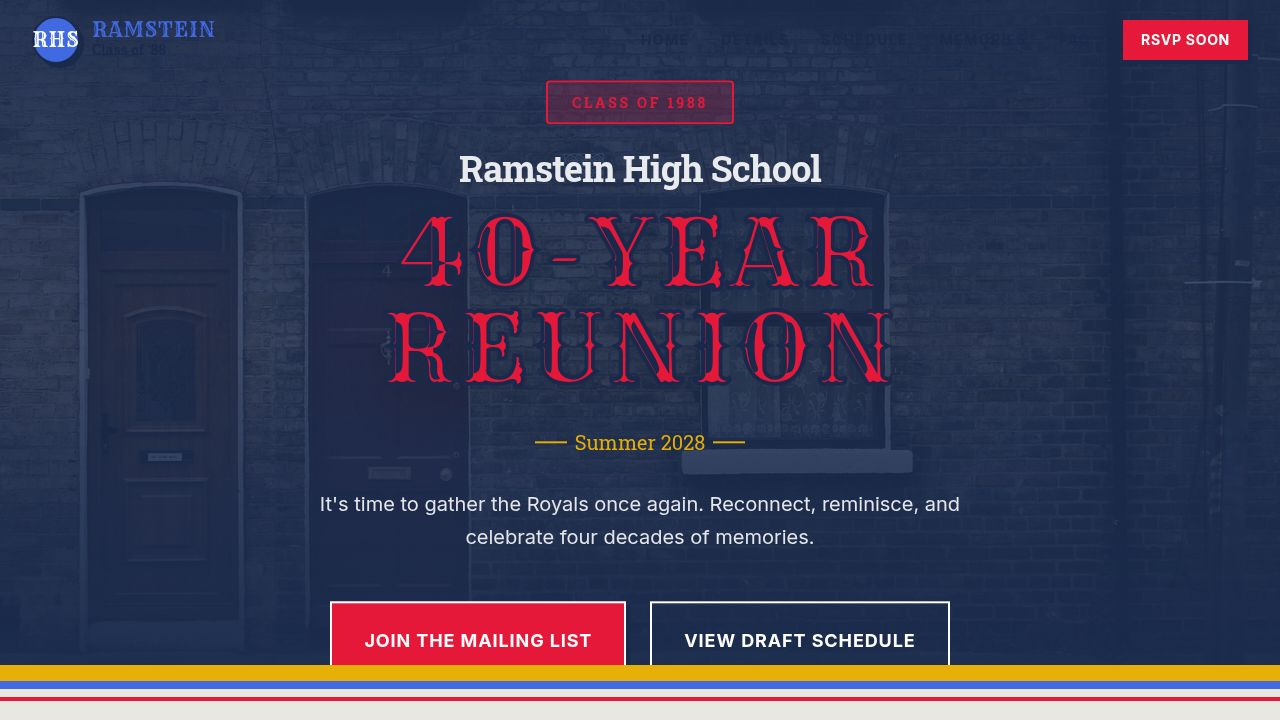
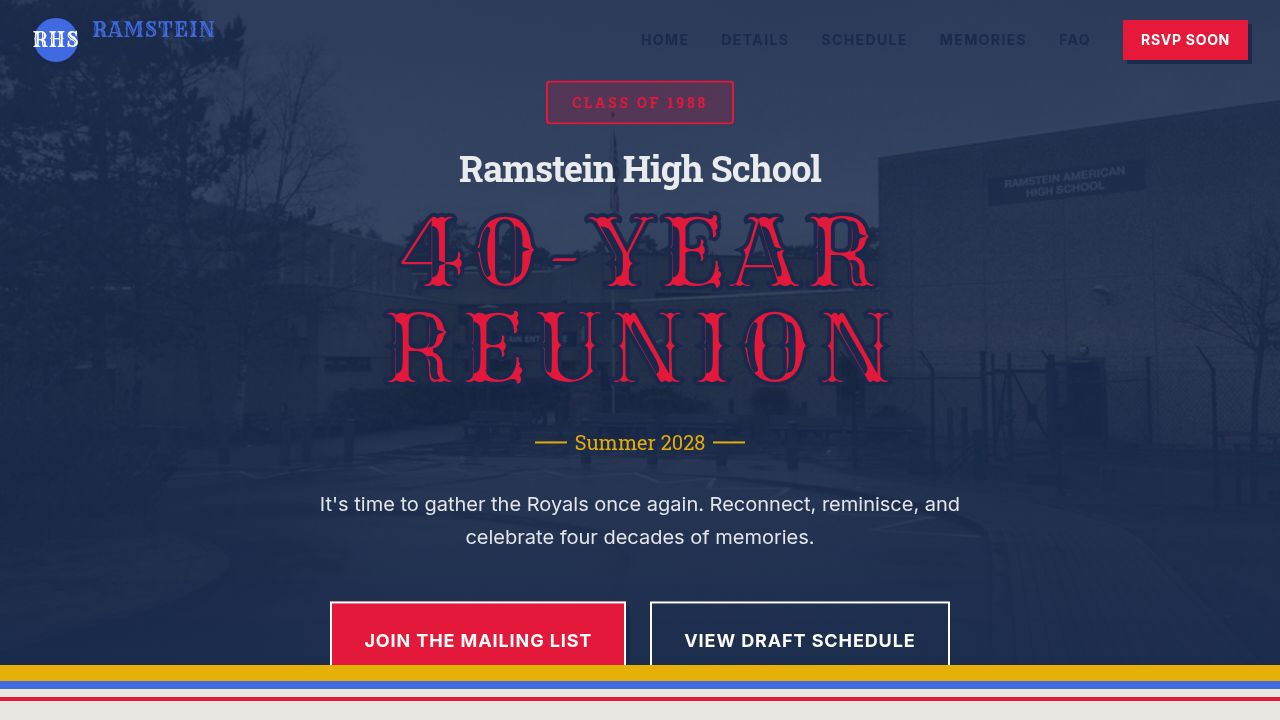
Update the website's background image to a new school photo
Replace the existing hero background image with a new one that represents the school.

Replit-Commit-Author: Agent
Replit-Commit-Session-Id: 84b8416e-d66f-4f1a-902d-4dd432a112ee
Replit-Commit-Checkpoint-Type: full_checkpoint
Replit-Commit-Event-Id: 675da74f-75d9-4412-908e-8b63db6e2d4d
Replit-Commit-Screenshot-Url: https://storage.googleapis.com/screenshot-production-us-central1/99a20cdf-a4e1-453a-8732-d469ca0bef26/84b8416e-d66f-4f1a-902d-4dd432a112ee/Li5EjKL
Replit-Helium-Checkpoint-Created: true

diff --git a/client/src/components/sections/Hero.tsx b/client/src/components/sections/Hero.tsx
@@ -1,7 +1,7 @@
 import { motion } from "framer-motion";
 import { siteContent } from "@/lib/content";
 import { Button } from "@/components/ui/button";
-import heroBg from "@/assets/images/hero-bg.jpg";
+import heroBg from "@assets/image_1771987222394.png";
 
 export function Hero() {
   return (
